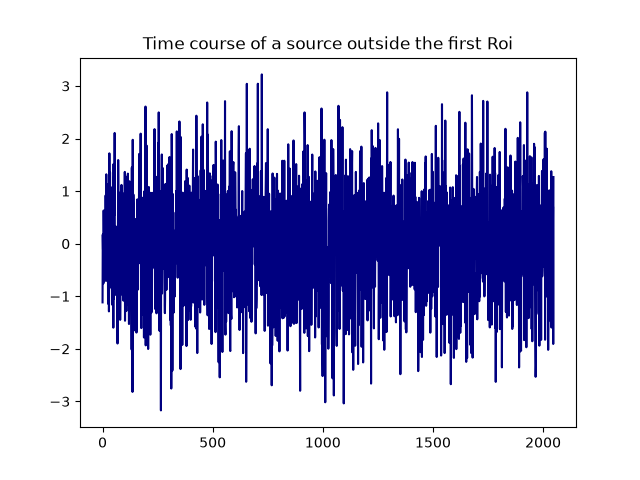
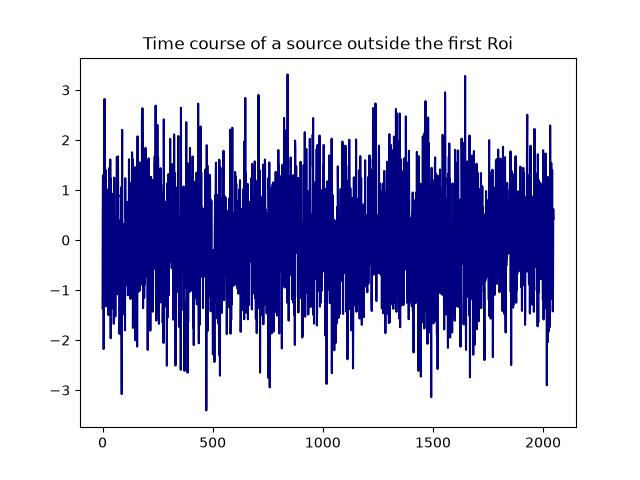
Deploy preview for PR 35 🛫

diff --git a/pr-preview/pr-35/sg_execution_times.html b/pr-preview/pr-35/sg_execution_times.html
@@ -45,7 +45,7 @@
   <link rel="preload" as="script" href="_static/scripts/bootstrap.js?digest=a95f357e85573c9b56d5" />
 <link rel="preload" as="script" href="_static/scripts/pydata-sphinx-theme.js?digest=a95f357e85573c9b56d5" />
 
-    <script src="_static/documentation_options.js?v=bd475bd6"></script>
+    <script src="_static/documentation_options.js?v=6e32fb6e"></script>
     <script src="_static/doctools.js?v=fd6eb6e6"></script>
     <script src="_static/sphinx_highlight.js?v=6ffebe34"></script>
     <script src="_static/clipboard.min.js?v=a7894cd8"></script>
@@ -430,7 +430,7 @@
                   
   <section id="computation-times">
 <span id="sphx-glr-sg-execution-times"></span><h1>Computation times<a class="headerlink" href="#computation-times" title="Link to this heading">🔗</a></h1>
-<p><strong>00:06.515</strong> total execution time for 1 file <strong>from all galleries</strong>:</p>
+<p><strong>00:06.507</strong> total execution time for 1 file <strong>from all galleries</strong>:</p>
 <div class="docutils container">
 <style scoped>
 <link href="https://cdnjs.cloudflare.com/ajax/libs/twitter-bootstrap/5.3.0/css/bootstrap.min.css" rel="stylesheet" />
@@ -452,8 +452,8 @@ $(document).ready( function () {
 </thead>
 <tbody>
 <tr class="row-even"><td><p><a class="reference internal" href="generated/tutorials/00_plot_svd.html#sphx-glr-generated-tutorials-00-plot-svd-py"><span class="std std-ref">Conpute SVD</span></a> (<code class="docutils literal notranslate"><span class="pre">../tutorials/00_plot_svd.py</span></code>)</p></td>
-<td><p>00:06.515</p></td>
-<td><p>714.8</p></td>
+<td><p>00:06.507</p></td>
+<td><p>707.9</p></td>
 </tr>
 </tbody>
 </table>

diff --git a/pr-preview/pr-35/api/index.html b/pr-preview/pr-35/api/index.html
@@ -45,7 +45,7 @@
   <link rel="preload" as="script" href="../_static/scripts/bootstrap.js?digest=a95f357e85573c9b56d5" />
 <link rel="preload" as="script" href="../_static/scripts/pydata-sphinx-theme.js?digest=a95f357e85573c9b56d5" />
 
-    <script src="../_static/documentation_options.js?v=bd475bd6"></script>
+    <script src="../_static/documentation_options.js?v=6e32fb6e"></script>
     <script src="../_static/doctools.js?v=fd6eb6e6"></script>
     <script src="../_static/sphinx_highlight.js?v=6ffebe34"></script>
     <script src="../_static/clipboard.min.js?v=a7894cd8"></script>

diff --git a/pr-preview/pr-35/api/io.html b/pr-preview/pr-35/api/io.html
@@ -45,7 +45,7 @@
   <link rel="preload" as="script" href="../_static/scripts/bootstrap.js?digest=a95f357e85573c9b56d5" />
 <link rel="preload" as="script" href="../_static/scripts/pydata-sphinx-theme.js?digest=a95f357e85573c9b56d5" />
 
-    <script src="../_static/documentation_options.js?v=bd475bd6"></script>
+    <script src="../_static/documentation_options.js?v=6e32fb6e"></script>
     <script src="../_static/doctools.js?v=fd6eb6e6"></script>
     <script src="../_static/sphinx_highlight.js?v=6ffebe34"></script>
     <script src="../_static/clipboard.min.js?v=a7894cd8"></script>

diff --git a/pr-preview/pr-35/api/regions_of_interests.html b/pr-preview/pr-35/api/regions_of_interests.html
@@ -45,7 +45,7 @@
   <link rel="preload" as="script" href="../_static/scripts/bootstrap.js?digest=a95f357e85573c9b56d5" />
 <link rel="preload" as="script" href="../_static/scripts/pydata-sphinx-theme.js?digest=a95f357e85573c9b56d5" />
 
-    <script src="../_static/documentation_options.js?v=bd475bd6"></script>
+    <script src="../_static/documentation_options.js?v=6e32fb6e"></script>
     <script src="../_static/doctools.js?v=fd6eb6e6"></script>
     <script src="../_static/sphinx_highlight.js?v=6ffebe34"></script>
     <script src="../_static/clipboard.min.js?v=a7894cd8"></script>

diff --git a/pr-preview/pr-35/api/source_estimate.html b/pr-preview/pr-35/api/source_estimate.html
@@ -45,7 +45,7 @@
   <link rel="preload" as="script" href="../_static/scripts/bootstrap.js?digest=a95f357e85573c9b56d5" />
 <link rel="preload" as="script" href="../_static/scripts/pydata-sphinx-theme.js?digest=a95f357e85573c9b56d5" />
 
-    <script src="../_static/documentation_options.js?v=bd475bd6"></script>
+    <script src="../_static/documentation_options.js?v=6e32fb6e"></script>
     <script src="../_static/doctools.js?v=fd6eb6e6"></script>
     <script src="../_static/sphinx_highlight.js?v=6ffebe34"></script>
     <script src="../_static/clipboard.min.js?v=a7894cd8"></script>

diff --git a/pr-preview/pr-35/api/source_space.html b/pr-preview/pr-35/api/source_space.html
@@ -45,7 +45,7 @@
   <link rel="preload" as="script" href="../_static/scripts/bootstrap.js?digest=a95f357e85573c9b56d5" />
 <link rel="preload" as="script" href="../_static/scripts/pydata-sphinx-theme.js?digest=a95f357e85573c9b56d5" />
 
-    <script src="../_static/documentation_options.js?v=bd475bd6"></script>
+    <script src="../_static/documentation_options.js?v=6e32fb6e"></script>
     <script src="../_static/doctools.js?v=fd6eb6e6"></script>
     <script src="../_static/sphinx_highlight.js?v=6ffebe34"></script>
     <script src="../_static/clipboard.min.js?v=a7894cd8"></script>

diff --git a/pr-preview/pr-35/genindex.html b/pr-preview/pr-35/genindex.html
@@ -44,7 +44,7 @@
   <link rel="preload" as="script" href="_static/scripts/bootstrap.js?digest=a95f357e85573c9b56d5" />
 <link rel="preload" as="script" href="_static/scripts/pydata-sphinx-theme.js?digest=a95f357e85573c9b56d5" />
 
-    <script src="_static/documentation_options.js?v=bd475bd6"></script>
+    <script src="_static/documentation_options.js?v=6e32fb6e"></script>
     <script src="_static/doctools.js?v=fd6eb6e6"></script>
     <script src="_static/sphinx_highlight.js?v=6ffebe34"></script>
     <script src="_static/clipboard.min.js?v=a7894cd8"></script>

diff --git a/pr-preview/pr-35/index.html b/pr-preview/pr-35/index.html
@@ -45,7 +45,7 @@
   <link rel="preload" as="script" href="_static/scripts/bootstrap.js?digest=a95f357e85573c9b56d5" />
 <link rel="preload" as="script" href="_static/scripts/pydata-sphinx-theme.js?digest=a95f357e85573c9b56d5" />
 
-    <script src="_static/documentation_options.js?v=bd475bd6"></script>
+    <script src="_static/documentation_options.js?v=6e32fb6e"></script>
     <script src="_static/doctools.js?v=fd6eb6e6"></script>
     <script src="_static/sphinx_highlight.js?v=6ffebe34"></script>
     <script src="_static/clipboard.min.js?v=a7894cd8"></script>

diff --git a/pr-preview/pr-35/install.html b/pr-preview/pr-35/install.html
@@ -45,7 +45,7 @@
   <link rel="preload" as="script" href="_static/scripts/bootstrap.js?digest=a95f357e85573c9b56d5" />
 <link rel="preload" as="script" href="_static/scripts/pydata-sphinx-theme.js?digest=a95f357e85573c9b56d5" />
 
-    <script src="_static/documentation_options.js?v=bd475bd6"></script>
+    <script src="_static/documentation_options.js?v=6e32fb6e"></script>
     <script src="_static/doctools.js?v=fd6eb6e6"></script>
     <script src="_static/sphinx_highlight.js?v=6ffebe34"></script>
     <script src="_static/clipboard.min.js?v=a7894cd8"></script>

diff --git a/pr-preview/pr-35/py-modindex.html b/pr-preview/pr-35/py-modindex.html
@@ -44,7 +44,7 @@
   <link rel="preload" as="script" href="_static/scripts/bootstrap.js?digest=a95f357e85573c9b56d5" />
 <link rel="preload" as="script" href="_static/scripts/pydata-sphinx-theme.js?digest=a95f357e85573c9b56d5" />
 
-    <script src="_static/documentation_options.js?v=bd475bd6"></script>
+    <script src="_static/documentation_options.js?v=6e32fb6e"></script>
     <script src="_static/doctools.js?v=fd6eb6e6"></script>
     <script src="_static/sphinx_highlight.js?v=6ffebe34"></script>
     <script src="_static/clipboard.min.js?v=a7894cd8"></script>

diff --git a/pr-preview/pr-35/search.html b/pr-preview/pr-35/search.html
@@ -43,7 +43,7 @@
   <link rel="preload" as="script" href="_static/scripts/bootstrap.js?digest=a95f357e85573c9b56d5" />
 <link rel="preload" as="script" href="_static/scripts/pydata-sphinx-theme.js?digest=a95f357e85573c9b56d5" />
 
-    <script src="_static/documentation_options.js?v=bd475bd6"></script>
+    <script src="_static/documentation_options.js?v=6e32fb6e"></script>
     <script src="_static/doctools.js?v=fd6eb6e6"></script>
     <script src="_static/sphinx_highlight.js?v=6ffebe34"></script>
     <script src="_static/clipboard.min.js?v=a7894cd8"></script>

diff --git a/pr-preview/pr-35/_static/documentation_options.js b/pr-preview/pr-35/_static/documentation_options.js
@@ -1,5 +1,5 @@
 const DOCUMENTATION_OPTIONS = {
-    VERSION: '0.3.0.dev2+gfcc5be8c2',
+    VERSION: '0.3.0.dev3+g28c573cdc',
     LANGUAGE: 'en',
     COLLAPSE_INDEX: false,
     BUILDER: 'html',
